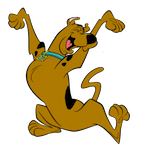
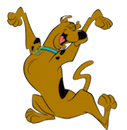
removed Neo4jSailGraph as it is no longer supported. Added JavaDoc to SailGraph related classes. Shrunk Scooby image a tad to make it the same size as the others.

diff --git a/src/main/java/com/tinkerpop/blueprints/pgm/impls/sail/SailGraph.java b/src/main/java/com/tinkerpop/blueprints/pgm/impls/sail/SailGraph.java
@@ -41,6 +41,8 @@ public class SailGraph implements TransactionalGraph {
     private static final String LOG4J_PROPERTIES = "log4j.properties";
 
     /**
+     * Construct a new SailGraph with an uninitialized Sail.
+     *
      * @param rawGraph a not-yet-initialized Sail instance
      */
     public SailGraph(final Sail rawGraph) {
@@ -151,11 +153,21 @@ public class SailGraph implements TransactionalGraph {
         this.autoStopTransaction(Conclusion.SUCCESS);
     }
 
+    /**
+     * Get the Sail connection currently being used by the graph.
+     *
+     * @return the Sail connection
+     */
     public SailConnection getSailConnection() {
         return this.sailConnection;
     }
 
-
+    /**
+     * Add a prefix-to-namespace mapping to the Sail connection of this graph.
+     *
+     * @param prefix    the prefix (e.g. tg)
+     * @param namespace the namespace (e.g. http://tinkerpop.com#)
+     */
     public void addNamespace(final String prefix, final String namespace) {
         try {
             this.sailConnection.setNamespace(prefix, namespace);
@@ -165,6 +177,11 @@ public class SailGraph implements TransactionalGraph {
         }
     }
 
+    /**
+     * Remove a prefix-to-namespace mapping from the Sail connection of this graph.
+     *
+     * @param prefix the prefix of the prefix-to-namespace mapping to remove
+     */
     public void removeNamespace(final String prefix) {
         try {
             this.sailConnection.removeNamespace(prefix);
@@ -174,6 +191,11 @@ public class SailGraph implements TransactionalGraph {
         }
     }
 
+    /**
+     * Get all the prefix-to-namespace mappings of the graph.
+     *
+     * @return a map of the prefix-to-namespace mappings
+     */
     public Map<String, String> getNamespaces() {
         Map<String, String> namespaces = new HashMap<String, String>();
         try {
@@ -189,14 +211,34 @@ public class SailGraph implements TransactionalGraph {
         return namespaces;
     }
 
+    /**
+     * Given a URI, expand it to its full URI.
+     *
+     * @param uri the compressed URI (e.g. tg:knows)
+     * @return the expanded URI (e.g. http://tinkerpop.com#knows)
+     */
     public String expandPrefix(final String uri) {
         return SailGraph.prefixToNamespace(uri, this.sailConnection);
     }
 
+    /**
+     * Given a URI, compress it to its prefixed URI.
+     *
+     * @param uri the expanded URI (e.g. http://tinkerpop.com#knows)
+     * @return the compressed URI (e.g. tg:knows)
+     */
     public String prefixNamespace(final String uri) {
         return SailGraph.namespaceToPrefix(uri, this.sailConnection);
     }
 
+    /**
+     * Load RDF data into the SailGraph. Supported formats include rdf-xml, n-triples, turtle, n3, trix, or trig.
+     *
+     * @param input     the InputStream of RDF data
+     * @param baseURI   the baseURI for RDF data
+     * @param format    supported formats include rdf-xml, n-triples, turtle, n3, trix, or trig
+     * @param baseGraph the baseGraph to insert the data into
+     */
     public void loadRDF(final InputStream input, final String baseURI, final String format, final String baseGraph) {
         Repository repository = new SailRepository(this.rawGraph);
         try {
@@ -217,7 +259,7 @@ public class SailGraph implements TransactionalGraph {
     public void clear() {
         try {
             this.sailConnection.clear();
-            this.sailConnection.commit();
+            this.autoStopTransaction(Conclusion.SUCCESS);
         } catch (SailException e) {
             throw new RuntimeException(e.getMessage(), e);
         }
@@ -233,7 +275,7 @@ public class SailGraph implements TransactionalGraph {
         }
     }
 
-    public static String prefixToNamespace(String uri, final SailConnection sailConnection) {
+    protected static String prefixToNamespace(String uri, final SailConnection sailConnection) {
         try {
             if (uri.contains(SailTokens.NAMESPACE_SEPARATOR)) {
                 String namespace = sailConnection.getNamespace(uri.substring(0, uri.indexOf(SailTokens.NAMESPACE_SEPARATOR)));
@@ -246,8 +288,7 @@ public class SailGraph implements TransactionalGraph {
         return uri;
     }
 
-    public static String namespaceToPrefix(String uri, final SailConnection sailConnection) {
-
+    protected static String namespaceToPrefix(String uri, final SailConnection sailConnection) {
         try {
             CloseableIteration<? extends Namespace, SailException> namespaces = sailConnection.getNamespaces();
             while (namespaces.hasNext()) {
@@ -328,6 +369,13 @@ public class SailGraph implements TransactionalGraph {
         return prefixString;
     }
 
+    /**
+     * Evaluate a SPARQL query against the SailGraph (http://www.w3.org/TR/rdf-sparql-query/). The result is a mapping between the ?-bindings and the bound URI, blank node, or literal represented as a Vertex.
+     *
+     * @param sparqlQuery the SPARQL query to evaluate
+     * @return the mapping between a ?-binding and the URI, blank node, or literal as a Vertex
+     * @throws RuntimeException if an error occurs in the SPARQL query engine
+     */
     public List<Map<String, Vertex>> executeSparql(String sparqlQuery) throws RuntimeException {
         try {
             sparqlQuery = getPrefixes() + sparqlQuery;

diff --git a/src/main/java/com/tinkerpop/blueprints/pgm/impls/sail/SailVertex.java b/src/main/java/com/tinkerpop/blueprints/pgm/impls/sail/SailVertex.java
@@ -47,8 +47,8 @@ public class SailVertex implements Vertex {
 
     private void updateLiteral(final Literal oldLiteral, final Literal newLiteral) {
         try {
-            Set<Statement> statements = new HashSet<Statement>();
-            CloseableIteration<? extends Statement, SailException> results = this.graph.getSailConnection().getStatements(null, null, oldLiteral, false);
+            final Set<Statement> statements = new HashSet<Statement>();
+            final CloseableIteration<? extends Statement, SailException> results = this.graph.getSailConnection().getStatements(null, null, oldLiteral, false);
             while (results.hasNext()) {
                 statements.add(results.next());
             }
@@ -70,7 +70,7 @@ public class SailVertex implements Vertex {
             throw new RuntimeException(URI_BLANK_NODE_PROPERTIES);
         } else {
             boolean update = false;
-            Literal oldLiteral = (Literal) this.rawVertex;
+            final Literal oldLiteral = (Literal) this.rawVertex;
             if (key.equals(SailTokens.DATATYPE)) {
                 this.rawVertex = new LiteralImpl(oldLiteral.getLabel(), new URIImpl(SailGraph.prefixToNamespace(value.toString(), this.graph.getSailConnection())));
                 update = true;
@@ -88,7 +88,7 @@ public class SailVertex implements Vertex {
         if (this.rawVertex instanceof Resource) {
             throw new RuntimeException(URI_BLANK_NODE_PROPERTIES);
         } else {
-            Literal oldLiteral = (Literal) this.rawVertex;
+            final Literal oldLiteral = (Literal) this.rawVertex;
             if (key.equals(SailTokens.DATATYPE) || key.equals(SailTokens.LANGUAGE)) {
                 this.rawVertex = new LiteralImpl(oldLiteral.getLabel());
                 this.updateLiteral(oldLiteral, (Literal) this.rawVertex);
@@ -113,7 +113,7 @@ public class SailVertex implements Vertex {
         }
 
         if (this.rawVertex instanceof Literal) {
-            Literal literal = (Literal) rawVertex;
+            final Literal literal = (Literal) rawVertex;
             if (key.equals(SailTokens.DATATYPE)) {
                 if (null != literal.getDatatype())
                     return literal.getDatatype().stringValue();
@@ -129,7 +129,7 @@ public class SailVertex implements Vertex {
     }
 
     public Set<String> getPropertyKeys() {
-        Set<String> keys = new HashSet<String>();
+        final Set<String> keys = new HashSet<String>();
         if (this.rawVertex instanceof Literal) {
             if (null != this.getProperty(SailTokens.DATATYPE)) {
                 keys.add(SailTokens.DATATYPE);

diff --git a/src/main/java/com/tinkerpop/blueprints/pgm/impls/sail/SailHelper.java b/src/main/java/com/tinkerpop/blueprints/pgm/impls/sail/SailHelper.java
@@ -64,7 +64,7 @@ public class SailHelper {
     }
 
     public static Literal makeLiteral(final String resource, SailConnection sailConnection) {
-        Matcher matcher = literalPattern.matcher(resource);
+        final Matcher matcher = literalPattern.matcher(resource);
         if (matcher.matches()) {
             if (null != matcher.group(4))
                 return new LiteralImpl(matcher.group(1), new URIImpl(SailGraph.prefixToNamespace(matcher.group(4), sailConnection)));
